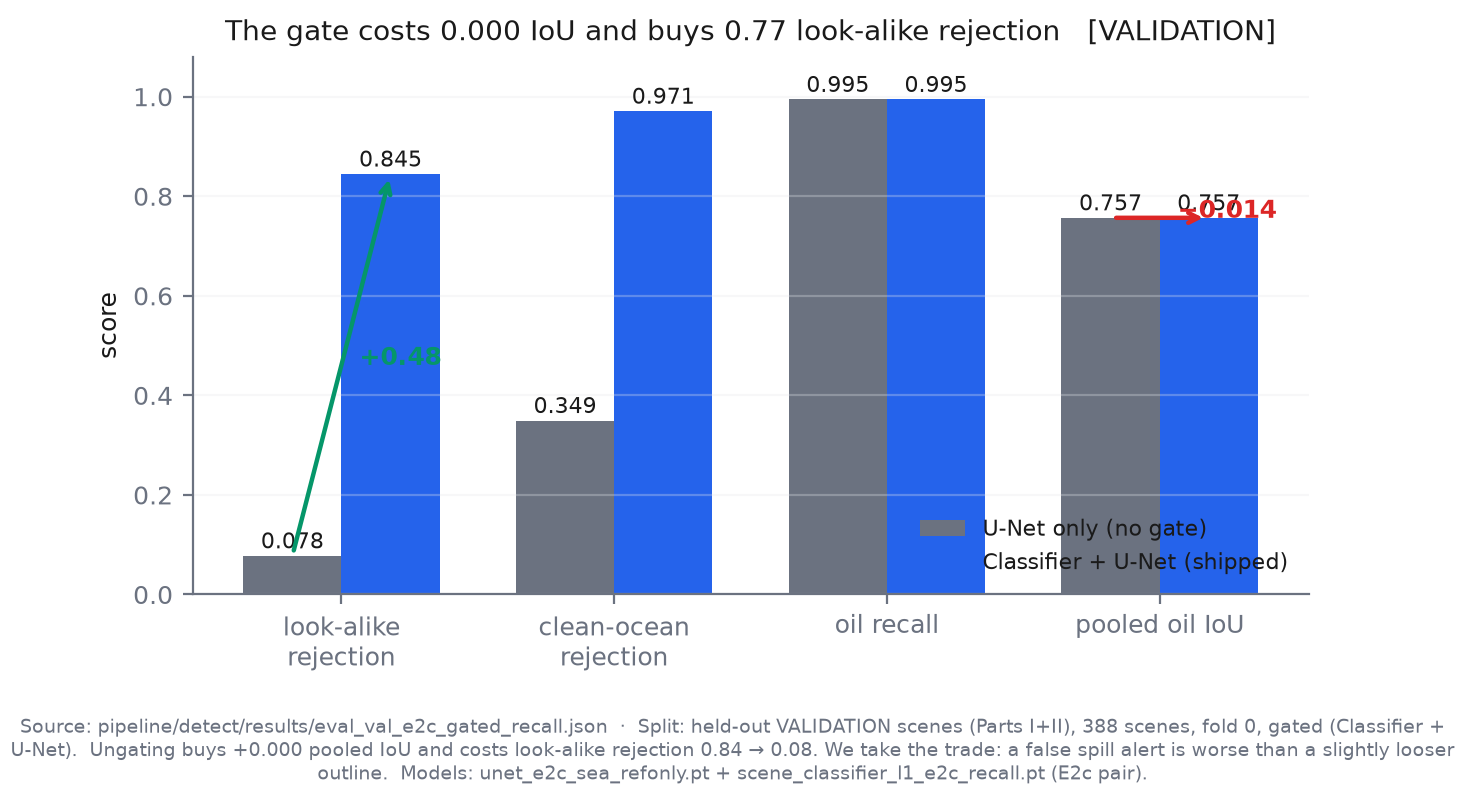
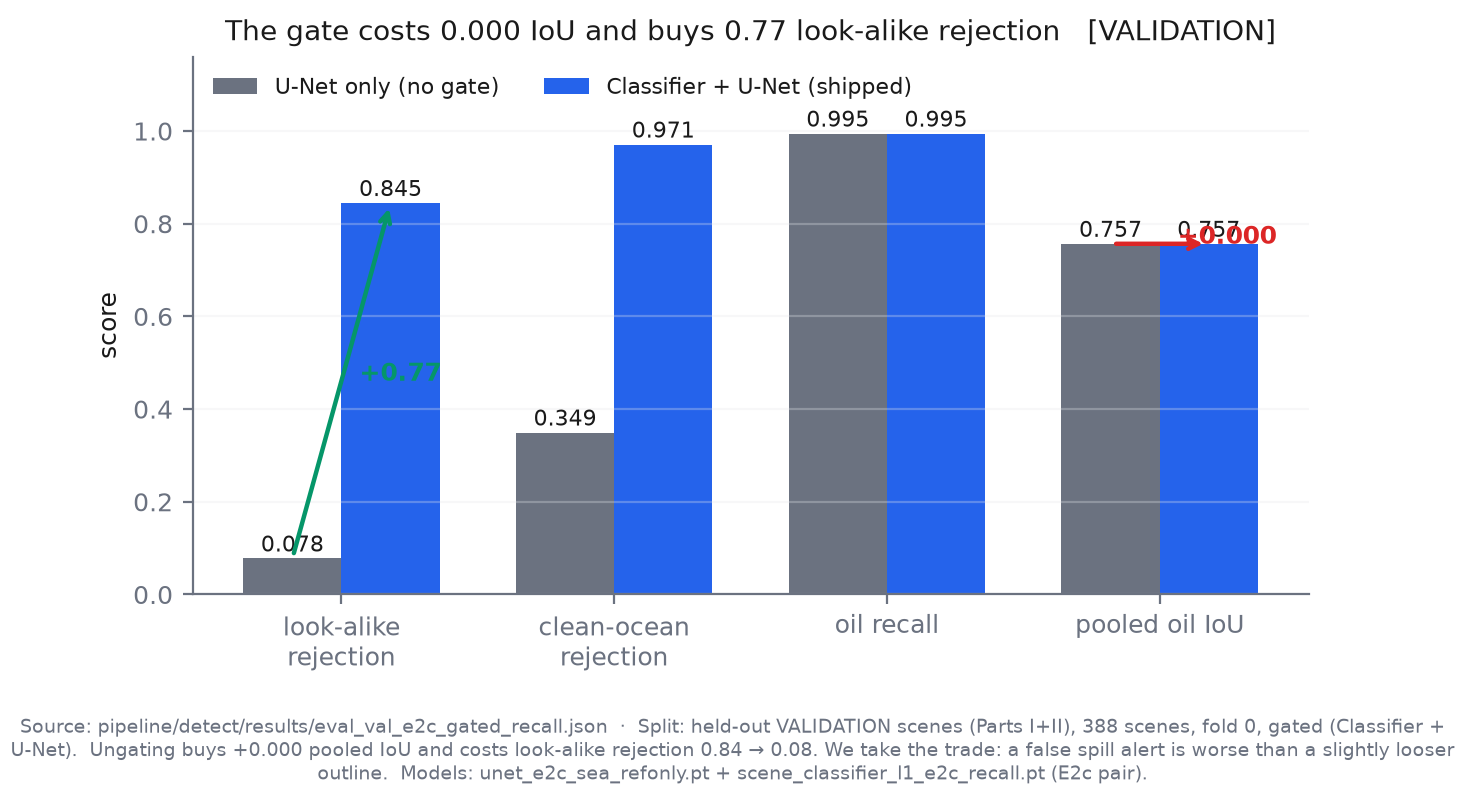
Stage 1: F1.3 had two hardcoded deltas left over from the holdout build
The arrow labels on the gate-ablation figure were literal strings - "+0.48" and
"-0.014" - carried over from when it was drawn on the Part III holdout. On the
validation build the real values are +0.77 and 0.000, so the figure contradicted
its own bars and its own title. Both are now computed from the plotted data.

This is the third hardcoded-caption bug in this file today (norm_mode from a
filename, the split in four captions, now these). Same root cause each time: a
value written as text instead of derived from what is drawn. The bars, title and
caption on this figure now all come from the same two numbers.

Legend moved off the bars it was covering.

diff --git a/pipeline/detect/make_figures.py b/pipeline/detect/make_figures.py
@@ -358,15 +358,18 @@ def f1_3():
                 "%.3f" % r.get_height(), ha="center", fontsize=8)
     ax.annotate("", xy=(0 + w/2, b[0]), xytext=(0 - w/2, a[0]),
                 arrowprops=dict(arrowstyle="->", color=GREEN, lw=1.6))
-    ax.text(0, (a[0] + b[0]) / 2, "  +0.48", color=GREEN, fontsize=9, fontweight="bold")
+    ax.text(0, (a[0] + b[0]) / 2, "  %+.2f" % (b[0] - a[0]), color=GREEN, fontsize=9,
+            fontweight="bold")
     ax.annotate("", xy=(3 + w/2, b[3]), xytext=(3 - w/2, a[3]),
                 arrowprops=dict(arrowstyle="->", color=RED, lw=1.6))
-    ax.text(3, (a[3] + b[3]) / 2, "  −0.014", color=RED, fontsize=9, fontweight="bold")
+    ax.text(3, (a[3] + b[3]) / 2, "  %+.3f" % (b[3] - a[3]), color=RED, fontsize=9,
+            fontweight="bold")
     ax.set_xticks(x); ax.set_xticklabels(labels)
-    ax.set_ylim(0, 1.08); ax.set_ylabel("score")
+    ax.set_ylabel("score")
     ax.set_title(_l2_title("The gate costs %.3f IoU and buys %.2f look-alike rejection"
                            % (a[3] - b[3], b[0] - a[0])), fontsize=10)
-    ax.legend(fontsize=8, frameon=False, loc="lower right")
+    ax.set_ylim(0, 1.16)
+    ax.legend(fontsize=8, frameon=False, loc="upper left", ncol=2)
     ax.grid(axis="y", alpha=0.3, color=GRID)
     _caption(fig, "%s  Ungating buys %+.3f pooled IoU and costs look-alike rejection "
                   "%.2f → %.2f. We take the trade: a false spill alert is worse than a "
